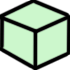
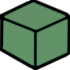
add select map element

diff --git a/src/Systems/map-render-system.ts b/src/Systems/map-render-system.ts
@@ -1,8 +1,10 @@
-import { ISystem, IEngine } from "adane-ecs"
+import { ISystem, IEngine, Entity } from "adane-ecs"
 import { RenderableComponent, Renderable } from "adane-ecs-graphics"
 import { AssetsConsts } from "../assets-consts";
 import { SettingsComponent } from "../Components/settings-componen";
 import { MapElementComponent } from "../Components/map-element-component";
+import { InputComponent, PointerDownInputTrigger } from "adane-ecs-input";
+import { ChangeSpriteComponent } from "../Components/change-sprite-component"
 
 export class MapRenderSystem implements ISystem{
 
@@ -20,13 +22,7 @@ export class MapRenderSystem implements ISystem{
         let width = settings.gameSettings.map.width;
 
         for(let i = 0; i < elements.length; i++){
-            let curEntity = elements[i];
-
-            let renderable = curEntity.get(RenderableComponent);
-            if (renderable){
-                break;
-            }
-
+            
             let tempWidth = 2 * width - 1
             let bigRowCount = Math.floor((i) / tempWidth);
 
@@ -42,10 +38,25 @@ export class MapRenderSystem implements ISystem{
                 x += additionalPadding;
             }
 
-            curEntity.add(this.createRenderable(AssetsConsts.mapElementSprite2, `mapElement${x},${y}`, x, y));
+            this.apply(elements[i], x, y);
         }
     }
     
+    private apply(entity: Entity, x: number, y: number){
+            let renderable = entity.get(RenderableComponent);
+            if (!renderable){
+                entity.add(this.createRenderable(AssetsConsts.mapElementSprite2, `mapElement${x},${y}`, x, y));
+                entity.add(new InputComponent(new PointerDownInputTrigger()));
+            }
+            if (entity.has(ChangeSpriteComponent.name)){
+                let asset = entity.get(ChangeSpriteComponent).asset;
+                if (asset){
+                    entity.remove(RenderableComponent.name);
+                    entity.add(this.createRenderable(asset, `mapElement${x},${y}`, x, y));
+                }
+            }
+    }
+
     private createRenderable(asset: string, name: string, xPos: number, yPos: number): RenderableComponent{
         return new RenderableComponent(Renderable.define((factory) => factory.sprite( { name: name, texture: asset, position: {x: xPos, y: yPos}} )));
     }

diff --git a/src/Systems/select-map-elem-system.ts b/src/Systems/select-map-elem-system.ts
@@ -1,0 +1,37 @@
+import { ISystem, IEngine, Entity } from "adane-ecs"
+import { InputComponent, PointerDownInputTrigger } from "adane-ecs-input";
+import { MapElementComponent } from "../Components/map-element-component";
+import { SelectComponent} from "..//Components/select-component";
+import { ChangeSpriteComponent } from "../Components/change-sprite-component";
+import { AssetBatchComponent } from "adane-ecs-graphics";
+import { AssetsConsts } from "../assets-consts";
+
+export class SelectMapElementSystem implements ISystem{
+
+    update(engine: IEngine): void {
+
+        let entities = engine.entities.findMany(InputComponent, MapElementComponent);
+
+        for(let i = 0; i < entities.length; i++){
+            let curEnity = entities[i];
+            if (curEnity.get(InputComponent).hit){
+                let selectComp = curEnity.get(SelectComponent);
+                if (selectComp.once){
+                    selectComp.double = true;
+                }
+                if (!selectComp.once){
+                    selectComp.once;
+                    curEnity.get(ChangeSpriteComponent).asset = AssetsConsts.mapElementSelectedSprite;
+                }
+            }
+        }
+
+        entities.forEach(e => {
+            let input = e.get(InputComponent);
+            if (input.hit){
+                console.log(`hit!!!!! ${e.identity}`);
+            }
+        });
+    }
+
+}

diff --git a/src/Systems/map-build-system.ts b/src/Systems/map-build-system.ts
@@ -5,6 +5,8 @@ import { AssetsConsts } from "../assets-consts";
 import { SettingsComponent } from "../Components/settings-componen";
 import { InputComponent, PointerDownInputTrigger } from "adane-ecs-input";
 import { MapElementComponent } from "../Components/map-element-component";
+import { ChangeSpriteComponent } from "../Components/change-sprite-component"
+import { SelectComponent } from "../Components/select-component";;
 
 export class MapBuildSystem implements ISystem {
 
@@ -31,7 +33,7 @@ export class MapBuildSystem implements ISystem {
         let element = new MapElementComponent(position);
         //let input = new InputComponent(new PointerDownInputTrigger());
         //let renderable = new RenderableComponent(Renderable.define((factory) => factory.sprite( { name: name, texture: AssetsConsts.mapElementSprite2, position: {x: 0, y: 0}} )));
-        return new Entity(Guid.newGuid(), element);
+        return new Entity(Guid.newGuid(), element, new ChangeSpriteComponent(), new SelectComponent());
     }
 
     private createPlayer(x: number, y: number, position: number): Entity{

diff --git a/src/Systems/init-system.ts b/src/Systems/init-system.ts
@@ -20,8 +20,6 @@ import { CrystalComponent } from "../Components/crystal-component";
 import { CrystalDestructionSystem } from "./crystal-destruction-system";
 import { InteractionSystem } from "./interaction-system";
 import { InteractionComponent } from "../Components/interaction-component";
-import { InputComponent } from "../Components/input-component";
-import { InputSystem } from "./input-system";
 import { MapElementDestructionSystem } from "./map-element-destruction-system";
 import { MovementSystem } from "./movement-system";
 import { PlayerMoveComponent } from "../Components/player-move-component";
@@ -70,7 +68,6 @@ export class InitSystem implements ISystem, IInitializableEvent, IDisposableEven
 
         engine.entities.add(new Entity(Guid.newGuid(), new CrystalQuestComponent()));
         engine.entities.add(new Entity(Guid.newGuid(), new InteractionComponent()));
-        engine.entities.add(new Entity(Guid.newGuid(), new InputComponent()));
         engine.entities.add(new Entity(Guid.newGuid(), new PlayerMoveComponent()));
     }
 

diff --git a/src/Systems/bootstrap-system.ts b/src/Systems/bootstrap-system.ts
@@ -10,6 +10,7 @@ import { GameSettings } from "../game-settings";
 import { MapSetting } from "../map-settings";
 import { Guid } from "adane-system";
 import { SettingsComponent } from "../Components/settings-componen";
+import { SelectMapElementSystem } from "./select-map-elem-system";
 
 
 export class BootstrapSystem implements ISystem, IInitializableEvent{
@@ -29,6 +30,7 @@ export class BootstrapSystem implements ISystem, IInitializableEvent{
 
         engine.addSystem(new MapBuildSystem());
         engine.addSystem(new MapRenderSystem());
+        engine.addSystem(new SelectMapElementSystem());
     }
 
     private getGameSetting(assets: Asset[]): GameSettings{
@@ -48,6 +50,7 @@ export class BootstrapSystem implements ISystem, IInitializableEvent{
             AssetsConsts.shieldSprite,
             AssetsConsts.towerSprite,
             AssetsConsts.mapElementSprite2,
+            AssetsConsts.mapElementSelectedSprite,
 
             AssetsConsts.gameSettings,
             AssetsConsts.mapSettings,

diff --git a/src/assets-consts.ts b/src/assets-consts.ts
@@ -6,6 +6,7 @@ export class AssetsConsts{
     static shieldSprite: string = "./assets/shield.png";
     static crystalSprite: string = "./assets/crystal.png"
     static mapElementSprite2: string = "./assets/mapElem_v2.png"
+    static mapElementSelectedSprite: string = "./assets/mapElem_selected.png"
 
     static gameSettings: string = "./assets/game-settings.json";
     static mapSettings: string = "./assets/map-1.json";

diff --git a/src/Components/change-sprite-component.ts b/src/Components/change-sprite-component.ts
@@ -1,0 +1,5 @@
+import { IComponent } from "adane-ecs"
+
+export class ChangeSpriteComponent implements IComponent {
+    asset: string;
+}
